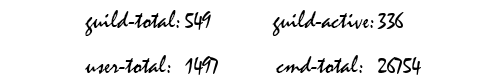
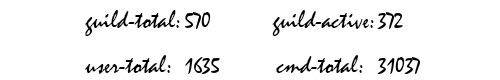
fix(main): log-text too long,change for img reply

diff --git a/code/main.py b/code/main.py
@@ -3517,31 +3517,38 @@ async def bot_log_list(msg:Message,*arg):
     logging(msg)
     try:
         if msg.author_id == master_id:
-            retDict = await log_bot_list(msg)
-            i=1
-            text_name = "No  服务器名\n"
-            text_user = "用户数\n"
-            for gu,ginfo in retDict['guild']['data'].items():
-                #Gret = await guild_view(gu)
-                Gname = ginfo['name']
-                if len(Gname) >12:
-                    text = Gname[0:11]
-                    text += "…"
-                    Gname = text
-                # 追加text
-                text_name+=f"[{i}]  {Gname}\n"
-                text_user+=f"{len(ginfo['user'])}\n"
-                i+=1
+            # retDict = await log_bot_list(msg)
+            # i=1
+            # text_name = "No  服务器名\n"
+            # text_user = "用户数\n"
+            # for gu,ginfo in retDict['guild']['data'].items():
+            #     #Gret = await guild_view(gu)
+            #     Gname = ginfo['name']
+            #     if len(Gname) >12:
+            #         text = Gname[0:11]
+            #         text += "…"
+            #         Gname = text
+            #     # 追加text
+            #     text_name+=f"[{i}]  {Gname}\n"
+            #     text_user+=f"{len(ginfo['user'])}\n"
+            #     i+=1
             
             cm = CardMessage()
-            c = Card(
-                Module.Header(f"来看看阿狸当前的用户记录吧！"),
-                Module.Context(f"服务器总数: {retDict['guild']['guild_total']}  活跃服务器: {retDict['guild']['guild_active']}  用户数: {retDict['user']['user_total']}  cmd: {retDict['cmd_total']}"),
-                Module.Divider(),
-                Module.Section(
-                    Struct.Paragraph(2,
-                               Element.Text(f"{text_name}",Types.Text.KMD),
-                               Element.Text(f"{text_user}",Types.Text.KMD))))
+            # c = Card(
+            #     Module.Header(f"来看看阿狸当前的用户记录吧！"),
+            #     Module.Context(f"服务器总数: {retDict['guild']['guild_total']}  活跃服务器: {retDict['guild']['guild_active']}  用户数: {retDict['user']['user_total']}  cmd: {retDict['cmd_total']}"),
+            #     Module.Divider(),
+            #     Module.Section(
+            #         Struct.Paragraph(2,
+            #                    Element.Text(f"{text_name}",Types.Text.KMD),
+            #                    Element.Text(f"{text_user}",Types.Text.KMD))))
+            c = Card(Module.Header(f"来看看阿狸当前的用户记录吧！"))
+            imgByteArr = io.BytesIO()
+            bg = Image.open("../screenshot/log.png")
+            bg.save(imgByteArr, format='PNG')
+            imgByte = imgByteArr.getvalue()
+            log_img_src = await bot_upimg.client.create_asset(imgByte) 
+            c.append(Module.Container(Element.Image(src=log_img_src)))
             cm.append(c)
             await msg.reply(cm)
         else:
